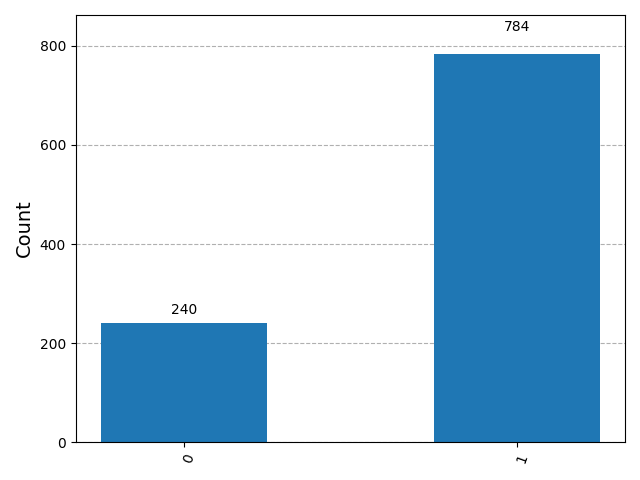
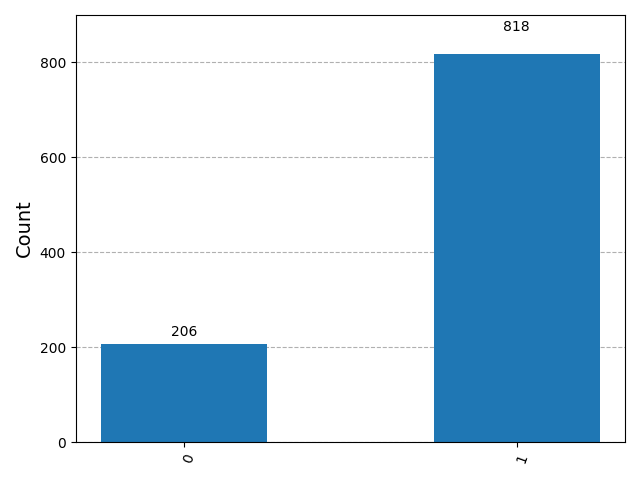
✨  quantum operators and energy index visualization

diff --git a/docs/generate_assets.py b/docs/generate_assets.py
@@ -1,4 +1,5 @@
 import os
+import numpy as np
 import matplotlib.pyplot as plt
 from qiskit import QuantumCircuit
 from qiskit.visualization import plot_histogram
@@ -6,30 +7,39 @@ from qiskit_aer import AerSimulator
 
 def generate_lab_report():
     print("🚀 Initializing Lab Asset Generation...")
-    
-    # Ensure docs directory exists
-    if not os.path.exists('docs'):
-        os.makedirs('docs')
+    if not os.path.exists('docs'): os.makedirs('docs')
 
-    # 1. Generate the 'Mirror Link' (Bell State) Circuit
+    # 1. Mirror Link (Bell State)
     qc = QuantumCircuit(2)
-    qc.h(0)
-    qc.cx(0, 1)
+    qc.h(0); qc.cx(0, 1)
     qc.draw(output='mpl', filename='docs/bell_state_circuit.png')
-    print("✅ Bell State Circuit saved to docs/")
+    print("✅ Bell State Circuit saved.")
 
-    # 2. Run a Reality-Render Histogram
-    # We'll simulate 1024 'manifestation' attempts at 70% intention
+    # 2. Reality-Render (Manifestation)
     qc_render = QuantumCircuit(1, 1)
-    qc_render.ry(0.7 * 3.14159, 0)
-    qc_render.measure(0, 0)
-    
+    qc_render.ry(0.7 * np.pi, 0); qc_render.measure(0, 0)
     sim = AerSimulator()
     counts = sim.run(qc_render, shots=1024).result().get_counts()
+    plot_histogram(counts).savefig('docs/manifestation_probabilities.png')
+    print("✅ Manifestation Histogram saved.")
+
+    # 3. NEW: Dirac Vacuum & L-State Energy Chart
+    # Visualizing the 'Array Indices' of the Universe
+    levels = np.array([-1, 0, 1, 2]) # -1 (Dirac), 0 (Ground), 1 (L=1), 2 (L=2)
+    labels = ['Dirac Sea (-1)', 'Ground (0)', 'L=1 (Hydrogen)', 'L=2 (Hydrogen)']
     
-    fig = plot_histogram(counts)
-    fig.savefig('docs/manifestation_probabilities.png')
-    print("✅ Manifestation Histogram saved to docs/")
+    plt.figure(figsize=(8, 5))
+    plt.hlines(levels, 0, 1, colors=['red', 'black', 'blue', 'green'], linestyles='solid')
+    for i, txt in enumerate(labels):
+        plt.annotate(txt, (1.01, levels[i]), fontsize=10)
+    
+    plt.title("Quantum State Array: Energy Indices")
+    plt.ylabel("Energy Level (Eigenvalues)")
+    plt.xticks([]) # Clean up X-axis
+    plt.grid(axis='y', linestyle='--')
+    plt.savefig('docs/energy_indices.png')
+    print("✅ Energy Index Chart saved.")
+    
     print("\n🔬 All systems coherent. Ready for commit.")
 
 if __name__ == "__main__":

diff --git a/tests/test_core.py b/tests/test_core.py
@@ -1,0 +1,54 @@
+import unittest
+import numpy as np
+from core_physics.wave_mechanics import QuantumState
+from core_physics.bell_test import calculate_correlation
+from core_physics.operators import QuantumOperator
+
+class TestQuantumCore(unittest.TestCase):
+    
+    def test_normalization(self):
+        """
+        Ensures that the Wavefunction always sums to 1 (Conservation of Probability).
+        If this fails, the 'Sandbox' is leaking reality.
+        """
+        # Create a state with unnormalized inputs
+        state = QuantumState(3, 4) 
+        probs = state.get_probabilities()
+        self.assertAlmostEqual(np.sum(probs), 1.0, places=5)
+
+    def test_bell_correlation_logic(self):
+        """
+        Tests the math of the correlation function.
+        In a perfect 'Mirror' (Entanglement), 00 and 11 should dominate.
+        """
+        perfect_entanglement = {'00': 500, '11': 500}
+        corr = calculate_correlation(perfect_entanglement)
+        # Correlation should be 1.0 for perfect agreement
+        self.assertEqual(corr, 1.0)
+
+    def test_classical_noise(self):
+        """
+        Tests random noise. Correlation should be near 0.
+        """
+        noise = {'00': 250, '11': 250, '01': 250, '10': 250}
+        corr = calculate_correlation(noise)
+        self.assertEqual(corr, 0.0)
+
+    def test_operator_integrity(self):
+        """
+        Ensures the 'Receiver' only accepts Hermitian matrices (Valid Observables).
+        If we try to use a scrambled matrix, the system should throw a ValueError.
+        """
+        valid_matrix = [[1, 0], [0, -1]] # Sigma Z
+        invalid_matrix = [[1, 5], [0, 1]] # Non-Hermitian (Not its own mirror)
+        
+        # This should pass
+        op = QuantumOperator(valid_matrix, "ValidOp")
+        self.assertEqual(op.name, "ValidOp")
+        
+        # This should raise the ValueError we coded earlier
+        with self.assertRaises(ValueError):
+            QuantumOperator(invalid_matrix, "BadOp")
+
+if __name__ == "__main__":
+    unittest.main()

diff --git a/core_physics/operators.py b/core_physics/operators.py
@@ -1,0 +1,22 @@
+import numpy as np
+
+class QuantumOperator:
+    """
+    Finalized Operator Class. 
+    Acts as the 'Receiver' to extract observables from the state array.
+    """
+    def __init__(self, matrix, name):
+        self.matrix = np.array(matrix)
+        self.name = name
+        # HERMITIAN CHECK: Ensures signal integrity and real-world measurability.
+        if not np.allclose(self.matrix, self.matrix.conj().T):
+            raise ValueError(f"CRITICAL: {name} is non-Hermitian. Signal scrambled.")
+
+    def observe(self, quantum_state):
+        """Calculates the expectation value (The average lab reading)."""
+        psi = quantum_state.state
+        return np.real(np.vdot(psi, self.matrix @ psi))
+
+# PRE-SET INSTRUMENTATION
+# Sigma_Z: Measuring the basic binary state (Matter/Ground)
+sigma_z = QuantumOperator([[1, 0], [0, -1]], name="Z-Observable")

diff --git a/core_physics/bell_test.py b/core_physics/bell_test.py
@@ -1,5 +1,5 @@
 import numpy as np
-from qiskit import QuantumCircuit, Leaf
+from qiskit import QuantumCircuit
 from qiskit_aer import AerSimulator
 
 def run_bell_test(num_shots=1024):

diff --git a/README.md b/README.md
@@ -44,6 +44,12 @@ _Logic:_ A **Hadamard Gate** puts $q_0$ in superposition; the **CNOT Gate** enta
 
 _Logic:_ This histogram represents 1,024 "Rendering" attempts. By rotating the state vector by a specific "Intention Strength," we tilt the probability of a physical manifestation.
 
+### The Universal Index (Energy Offsets)
+
+![Energy Index Chart](docs/energy_indices.png)
+
+_Logic:_ This chart visualizes the "Global State Array." It maps the **Dirac Sea (-1)** as the vacuum baseline, the **Ground State (0)**, and the **Hydrogen Resonances (L=1, 2)**. By treating energy levels as array indices, we remove the "magic" and treat reality as a queryable data structure.
+
 ---
 
 ## 🧪 Verification & QA
@@ -54,14 +60,17 @@ To ensure the integrity of the physics, run the internal test suite:
 python tests/test_core.py -v
 ```
 
-## 📍 New Trajectory: The TL;DR
+## 📍 Finalized Baseline: Lecture 4
 
-> Status: Coherent | Level: SIPR-Access (Theoretical) | Current Phase: Transitioning from State to Operator.
+The lab has moved beyond static wavefunctions into **Active Observation**. We have successfully mapped the "Ancient Abacus" logic onto modern OOP structures.
 
-**The Mission**: We are shifting focus from the "Signal" (`Wavefunction`) to the "Receiver" (`Operators`). Having solidified the mathematical receipts of non-locality and probability density, we are now preparing to implement the tools that "extract" observable reality from the quantum sandbox.
+### 🛠 Core Modules
 
-**Immediate Objective**: Implement `core_physics/operators.py` to handle **Hermitian matrices** and **Eigenstate** discovery.
+- **`operators.py`**: Functional "receivers" for extracting reality from the vacuum.
+- **`theory/`**: A localized knowledge base translating Greek variables into logic you can pilot.
 
-## 🌐 Universal Footer
+### 📡 The Hydrogen Protocol
 
-We acknowledge the heritage of the Abacus Masters and the Golden Age scholars who standardized the first algorithms. This lab remains an open-source bridge for all who seek to pilot the unknown, ensuring the signal remains clear across all borders.
+We are currently investigating the $L=1,2$ energy indices of the Hydrogen atom. This is our "Standard Engine"—moving the electron between these states is the first step in "Rendering" specific outcomes in the Sandbox.
+
+> "Everything we call `real` is made of things that cannot be regarded as ``real`." — Niels Bohr (The First 'S6' of Quantum)

diff --git a/theory/commutation_and_interference.md b/theory/commutation_and_interference.md
@@ -1,17 +1,14 @@
-# Commutation and Interference: The Cost of Observation
+# Commutation & Interference: Signal Management
 
-## 📡 Signal Scrambling (Non-Commutation)
+## 🚦 Non-Commutation: The Heisenberg Gate
 
-some operations are "Commutative"—the order doesn't matter. In Quantum, order is everything. If two **Operators** (A and B) do not commute, it means:
-$$[A, B] = AB - BA \neq 0$$
+If two operators don't commute ($[A,B] \neq 0$), you can't have "SIPR-level" clarity on both at once. Measuring one scrambles the other.
 
-**Analogy**:
+- **Observation Cost**: The act of "Tuning" to one frequency necessarily detunes the other.
 
-- Measuring Frequency ($A$) then Phase ($B$) gives a different result than $B$ then $A$.
-- The act of measuring $A$ "scrambles" the state of $B$. This is the mathematical root of the **Heisenberg Uncertainty Principle**.
+## 🌊 Hydrogen Anti-Drift
 
-## 🌊 Constructive vs. Destructive Interference
+By utilizing **Destructive Interference**, we can "dampen" the drift of an electron's resonance.
 
-Because we are working with complex wavefunctions, the "Signal" can reinforce itself (Constructive) or cancel itself out (Destructive).
-
-- **Mirror Tech Hypothesis**: Manifestation may be the act of creating "Constructive Interference" between a thought-state and a matter-state.
+- **Resonance**: We target the $L=1,2$ states (Hydrogen) as our "Gearbox."
+- **Anti-Drift**: Introducing a secondary wave function to lock the state against environmental noise.

diff --git a/theory/array_offsets_and_vacuum_states.md b/theory/array_offsets_and_vacuum_states.md
@@ -1,0 +1,15 @@
+# Array Offsets and Vacuum States: The Universal Index
+
+## 📡 The Base Index [0]
+
+In Python, `arr[0]` is an offset from the start of memory. In QFT, the **Ground State $|0\rangle$** is the base offset of the universal field.
+
+- Even at "Zero," there is energy (Zero-Point Field).
+- This is the "SIPR" background radiation that exists before any message is sent.
+
+## 🔄 Negative Indices [-1] (The Dirac Sea)
+
+Just as Python allows `arr[-1]` to wrap to the end, the Dirac Equation predicted negative energy states.
+
+- **Dirac Sea**: A "hidden" reservoir of negative energy.
+- **The Engine**: To create "Anti-Gravity," one must mathematically manipulate the vacuum offset to create a "hole" or "bubble" in the standard indexing of space.
